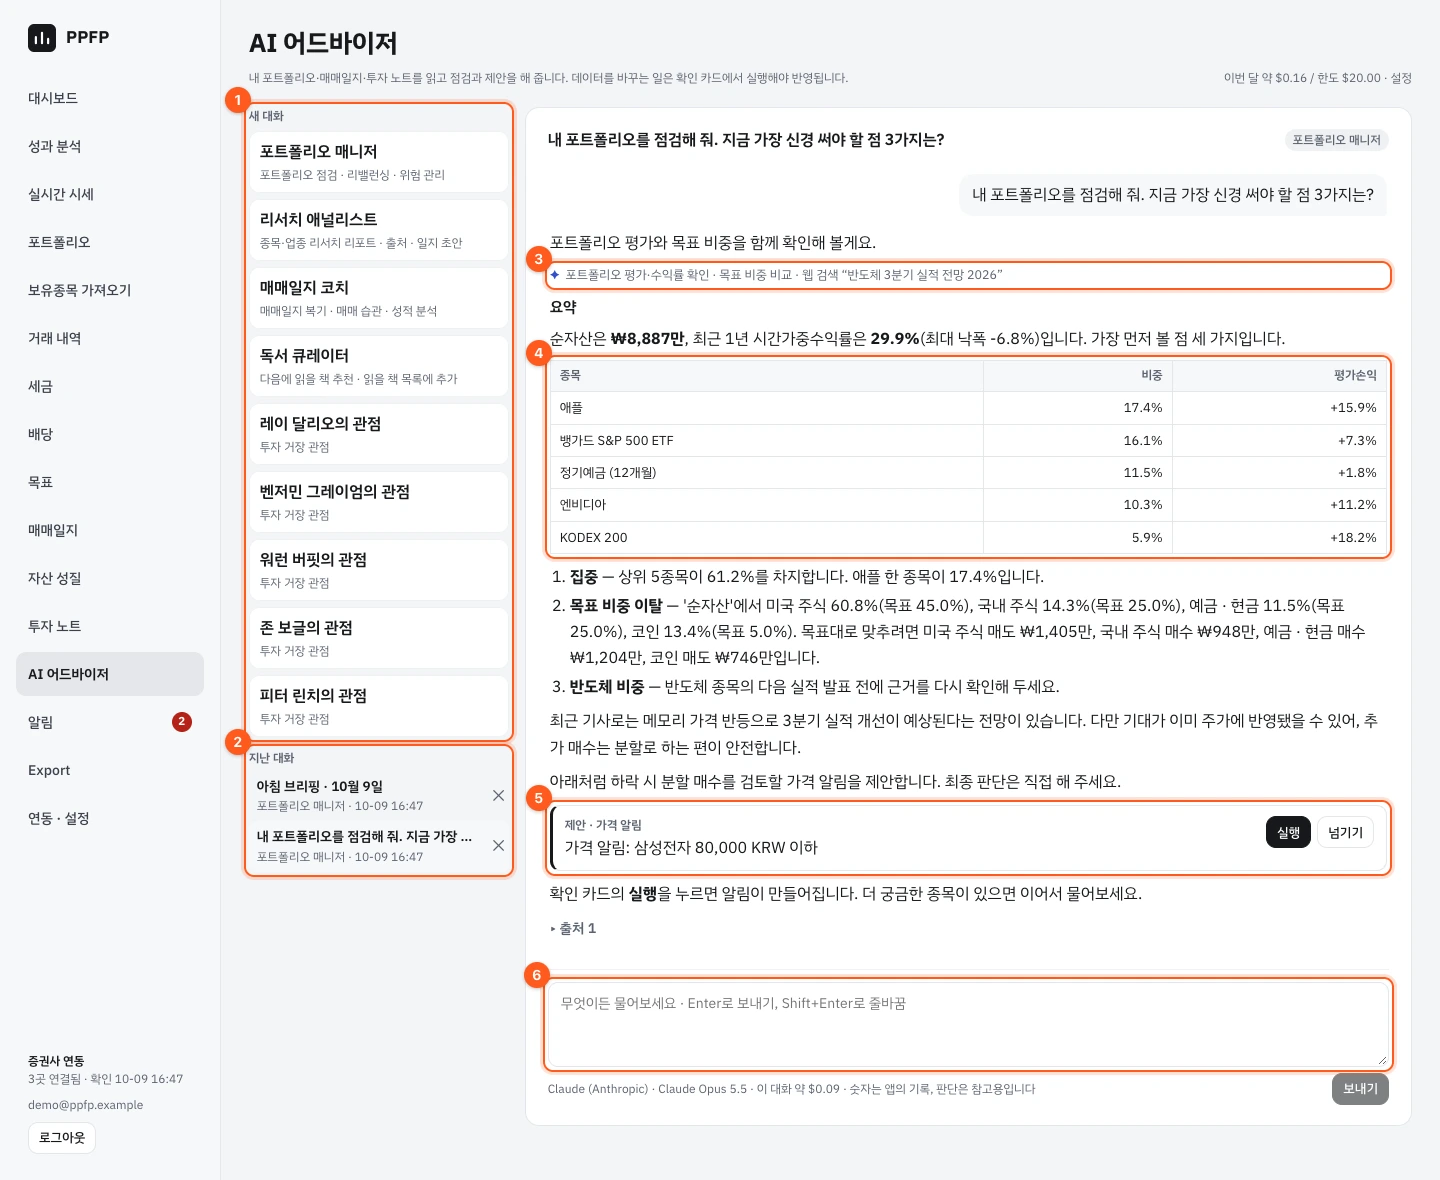
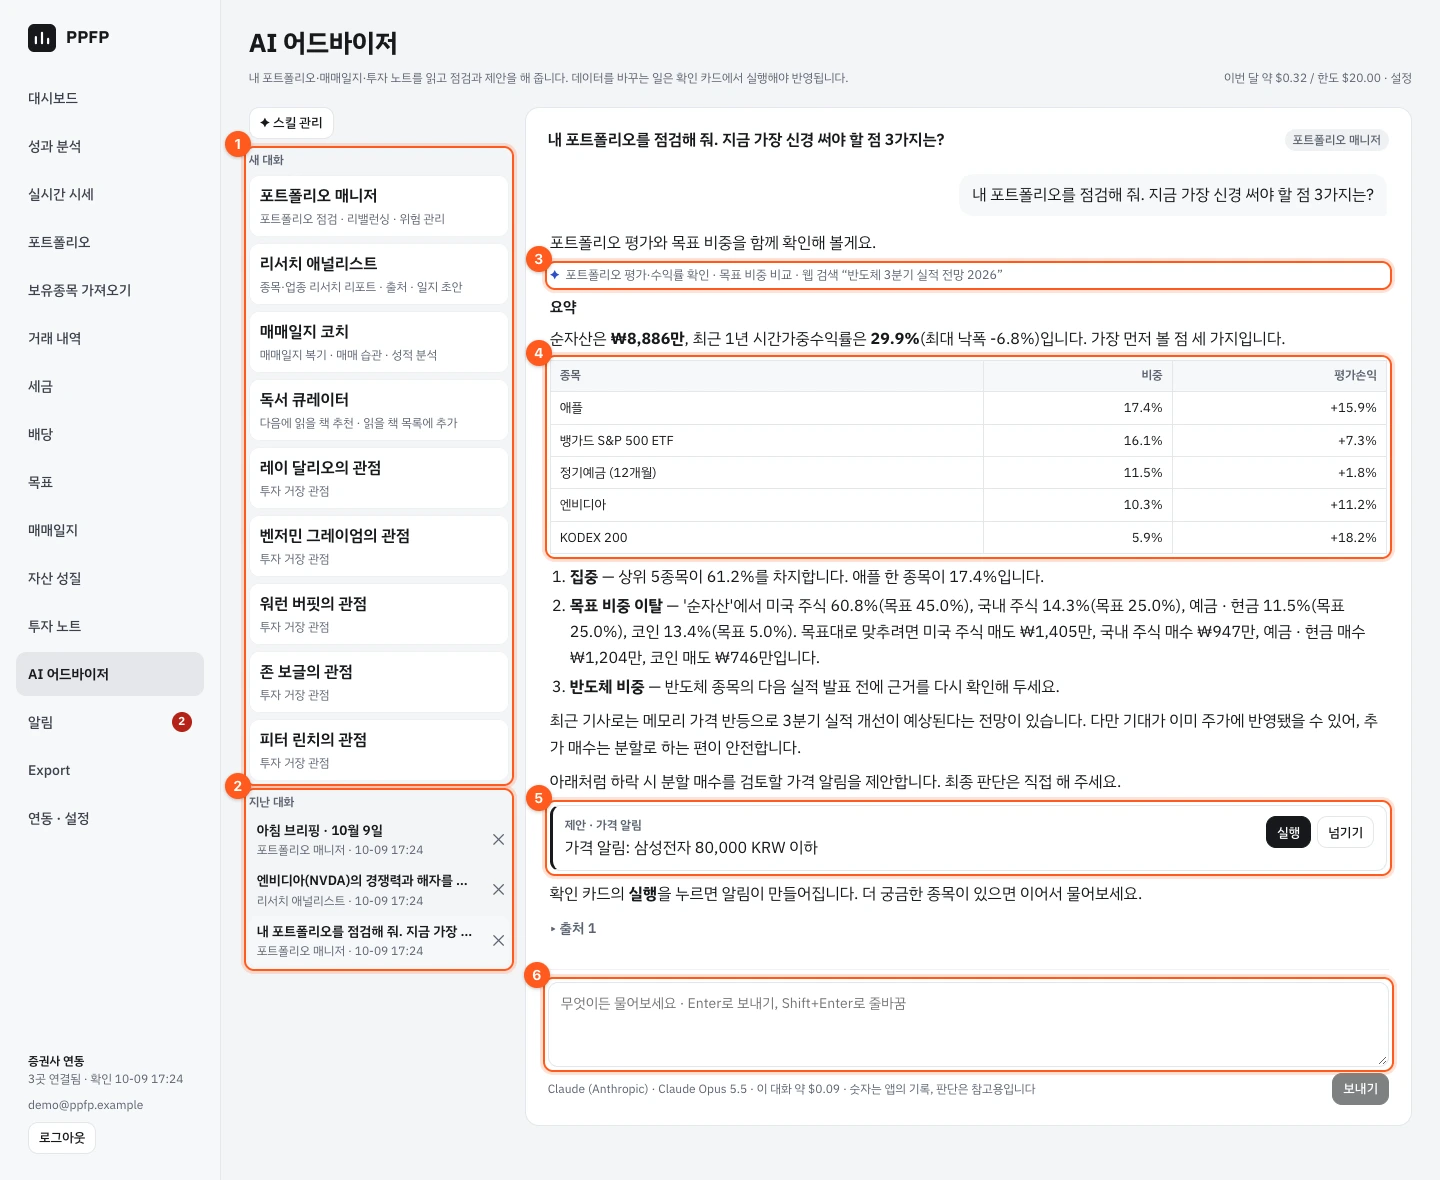
Document AI skills and the community skill ranking, with new screens
AI 어드바이저 gets a 스킬 section: how an agent picks and reads a skill,
making one (starters, pasting a SKILL.md), switching and assigning it,
and the community ranking with its preview, what is and is not imported,
and the limits. 기능 이력 gets a row.

New captures: ai-skills, ai-skills-community and ai-skill-use (a research
answer that read a skill, prepared through the demo server). ai-page is
retaken for the 스킬 관리 button. The demo account has a starter skill;
captures also install one from the made-up catalog in fake-skills.cjs.

Changed region(s): [[0.1562, 0.061, 0.375, 0.8237], [0.3438, 0.0915, 0.375, 0.122]]

diff --git a/scripts/docs/capture.ts b/scripts/docs/capture.ts
@@ -80,6 +80,8 @@ interface Ids {
   book: string;
   /** A finished AI advisor conversation, prepared through the demo server before capturing */
   aiChat: string;
+  /** A research conversation that used a skill */
+  aiSkillChat: string;
   /** Today's morning briefing conversation */
   aiBriefing: string;
 }
@@ -497,6 +499,47 @@ const SHOTS: Shot[] = [
     marks: [{ sel: '.ai-main h2' }, { sel: '.ai-turn.user' }, { sel: '.ai-md h2', text: '오늘 할 일' }],
   },
   {
+    file: 'ai-skills',
+    path: () => '/ai/skills',
+    wait: 1500,
+    width: 1280,
+    clip: [{ sel: '.page-head' }, { sel: 'nav[aria-label="스킬"]' }, { sel: '.skill-table', closest: '.card' }],
+    marks: [
+      { sel: 'button', text: '+ 새 스킬', closest: '.inline' },
+      { sel: '.skill-table input[type="checkbox"]' },
+      { sel: '.skill-table a.badge' },
+      { sel: '.skill-table .skill-agents' },
+      { sel: 'button', text: '다시 가져오기' },
+    ],
+  },
+  {
+    file: 'ai-skills-community',
+    path: () => '/ai/skills?tab=community',
+    wait: 2000,
+    width: 1440,
+    height: 1100,
+    steps: [{ click: { sel: '.skill-pick span', text: 'dcf-valuation', closest: '.skill-pick' } }, { until: "!!document.querySelector('.skill-preview h2')", timeout: 15_000 }, { wait: 400 }],
+    clip: [{ sel: '.skill-community' }],
+    marks: [
+      { sel: 'input[aria-label="커뮤니티 스킬 찾기"]' },
+      { sel: '[aria-label="분류"]' },
+      { sel: '.skill-rank tbody tr' },
+      { sel: '.skill-warn' },
+      { sel: 'button', text: '내 어드바이저에 적용', closest: '.inline' },
+      { sel: '.skill-body' },
+    ],
+  },
+  {
+    file: 'ai-skill-use',
+    path: (ids) => `/ai?c=${ids.aiSkillChat}`,
+    wait: 2500,
+    width: 1280,
+    steps: [{ until: "(document.querySelector('.ai-log').scrollTop = 0, true)" }, { wait: 300 }],
+    clip: [{ sel: '.ai-main h2' }, { sel: '.ai-turn.user' }, { sel: '.ai-steps' }, { sel: '.ai-steps', nth: 1 }],
+    pad: 10,
+    marks: [{ sel: '.ai-steps' }, { sel: '.ai-steps', nth: 1 }],
+  },
+  {
     file: 'ai-settings',
     path: () => '/settings',
     wait: 1500,
@@ -781,6 +824,8 @@ async function main() {
     CRON_SECRET: 'docs-demo-cron-secret',
     // Book search goes to the fake in fake-books.cjs
     KAKAO_REST_API_KEY: '0123456789abcdef0123456789abcdef',
+    // Community skills come from the made-up catalog in fake-skills.cjs
+    PPFP_FAKE_SKILLS: '1',
   };
   let server: ChildProcess | null = null;
   let chrome: Awaited<ReturnType<typeof launchChrome>> | null = null;
@@ -816,6 +861,7 @@ async function main() {
       buffett: (await db.sage.findFirstOrThrow({ where: { preset: 'buffett' } })).id,
       book: (await db.book.findFirstOrThrow()).id,
       aiChat: '',
+      aiSkillChat: '',
       aiBriefing: '',
     };
 
@@ -836,6 +882,14 @@ async function main() {
     const events = await chat.text();
     if (!events.includes('"t":"done"')) throw new Error(`AI conversation failed:\n${events}`);
     ids.aiChat = (await db.aiConversation.findFirstOrThrow()).id;
+    // A research answer that reads the analyst's skill first
+    const research = await fetch(`${BASE}/api/ai/chat`, {
+      method: 'POST',
+      headers: { 'content-type': 'application/json', cookie: `ppfp_session=${token}` },
+      body: JSON.stringify({ agent: 'RESEARCH', text: '엔비디아(NVDA)의 경쟁력과 해자를 점검해 줘', path: '/market?s=NVDA' }),
+    });
+    if (!(await research.text()).includes('"t":"done"')) throw new Error('AI research conversation failed');
+    ids.aiSkillChat = (await db.aiConversation.findFirstOrThrow({ where: { agent: 'RESEARCH' } })).id;
     // The scheduled-job endpoint sends the morning briefing that is due (from midnight, whatever the time now)
     await db.aiSettings.updateMany({ data: { briefingHour: 0 } });
     const cron = await fetch(`${BASE}/api/cron/alerts`, { method: 'POST', headers: { authorization: `Bearer ${env.CRON_SECRET}` } });

diff --git a/scripts/docs/seed-demo.ts b/scripts/docs/seed-demo.ts
@@ -25,6 +25,7 @@ import { addLink, addPresetSage, createBook, createNote, saveBook } from '@/serv
 import { checkDrift, checkPriceAlerts, createAlert, savePortfolioTargets } from '@/server/services/alerts';
 import { applyExampleTargets, createGroupFromPreset, saveGroup, setAssetTraits, trackWatchItem } from '@/server/services/traits';
 import { createPortfolio } from '@/server/services/portfolios';
+import { SKILL_STARTERS } from '@/domain/ai-skills';
 import { BUILTIN_FORMATS } from '@/domain/journal';
 import { recordBuy, recordCash, recordSell, recordValuation } from '@/server/services/trading';
 
@@ -369,6 +370,29 @@ async function seedKnowledge(uid: string) {
   await prisma.aiSettings.create({
     data: { userId: uid, briefing: true, briefingHour: 7, briefingWeekdays: false, monthlyLimit: '20.00', agentModels: { COACH: { provider: 'openai', model: 'gpt-6.1-sol' } } },
   });
+  // AI skills: a checklist the user wrote for the manager and research, and (for captures, where
+  // the made-up catalog in fake-skills.cjs answers) one imported from the community
+  const starter = SKILL_STARTERS[0];
+  await prisma.aiSkill.create({ data: { userId: uid, name: starter.name, description: starter.description, instructions: starter.instructions, agents: starter.agents } });
+  if (process.env.PPFP_FAKE_SKILLS === '1') {
+    const sourceId = 'value-lab/investing-skills/moat-analysis';
+    const description = "Judge how durable a company's competitive advantage is. Use when the user asks about a moat, pricing power, or whether a business can defend its returns.";
+    await prisma.aiSkill.create({
+      data: {
+        userId: uid,
+        name: 'moat-analysis',
+        description,
+        instructions: `# Moat Analysis\n\n${description}\n\n## Steps\n\n1. List the sources of advantage.\n2. Check returns on capital over 5-10 years.\n3. Name what could erode it.\n4. Rate the moat none / narrow / wide.`,
+        agents: ['RESEARCH'],
+        source: 'skills.sh',
+        sourceId,
+        sourcePath: 'skills/moat-analysis/SKILL.md',
+        sourceUrl: `https://github.com/value-lab/investing-skills/blob/HEAD/skills/moat-analysis/SKILL.md`,
+        license: 'MIT',
+        installs: 8210,
+      },
+    });
+  }
   // Goals, dated from today so the screens stay the same whenever they are taken
   const year = Number(dash(ago(0)).slice(0, 4));
   await prisma.goal.create({ data: { userId: uid, name: '은퇴 자금', target: '1000000000', targetDate: new Date(`${year + 20}-12-31`), monthly: '1500000' } });
